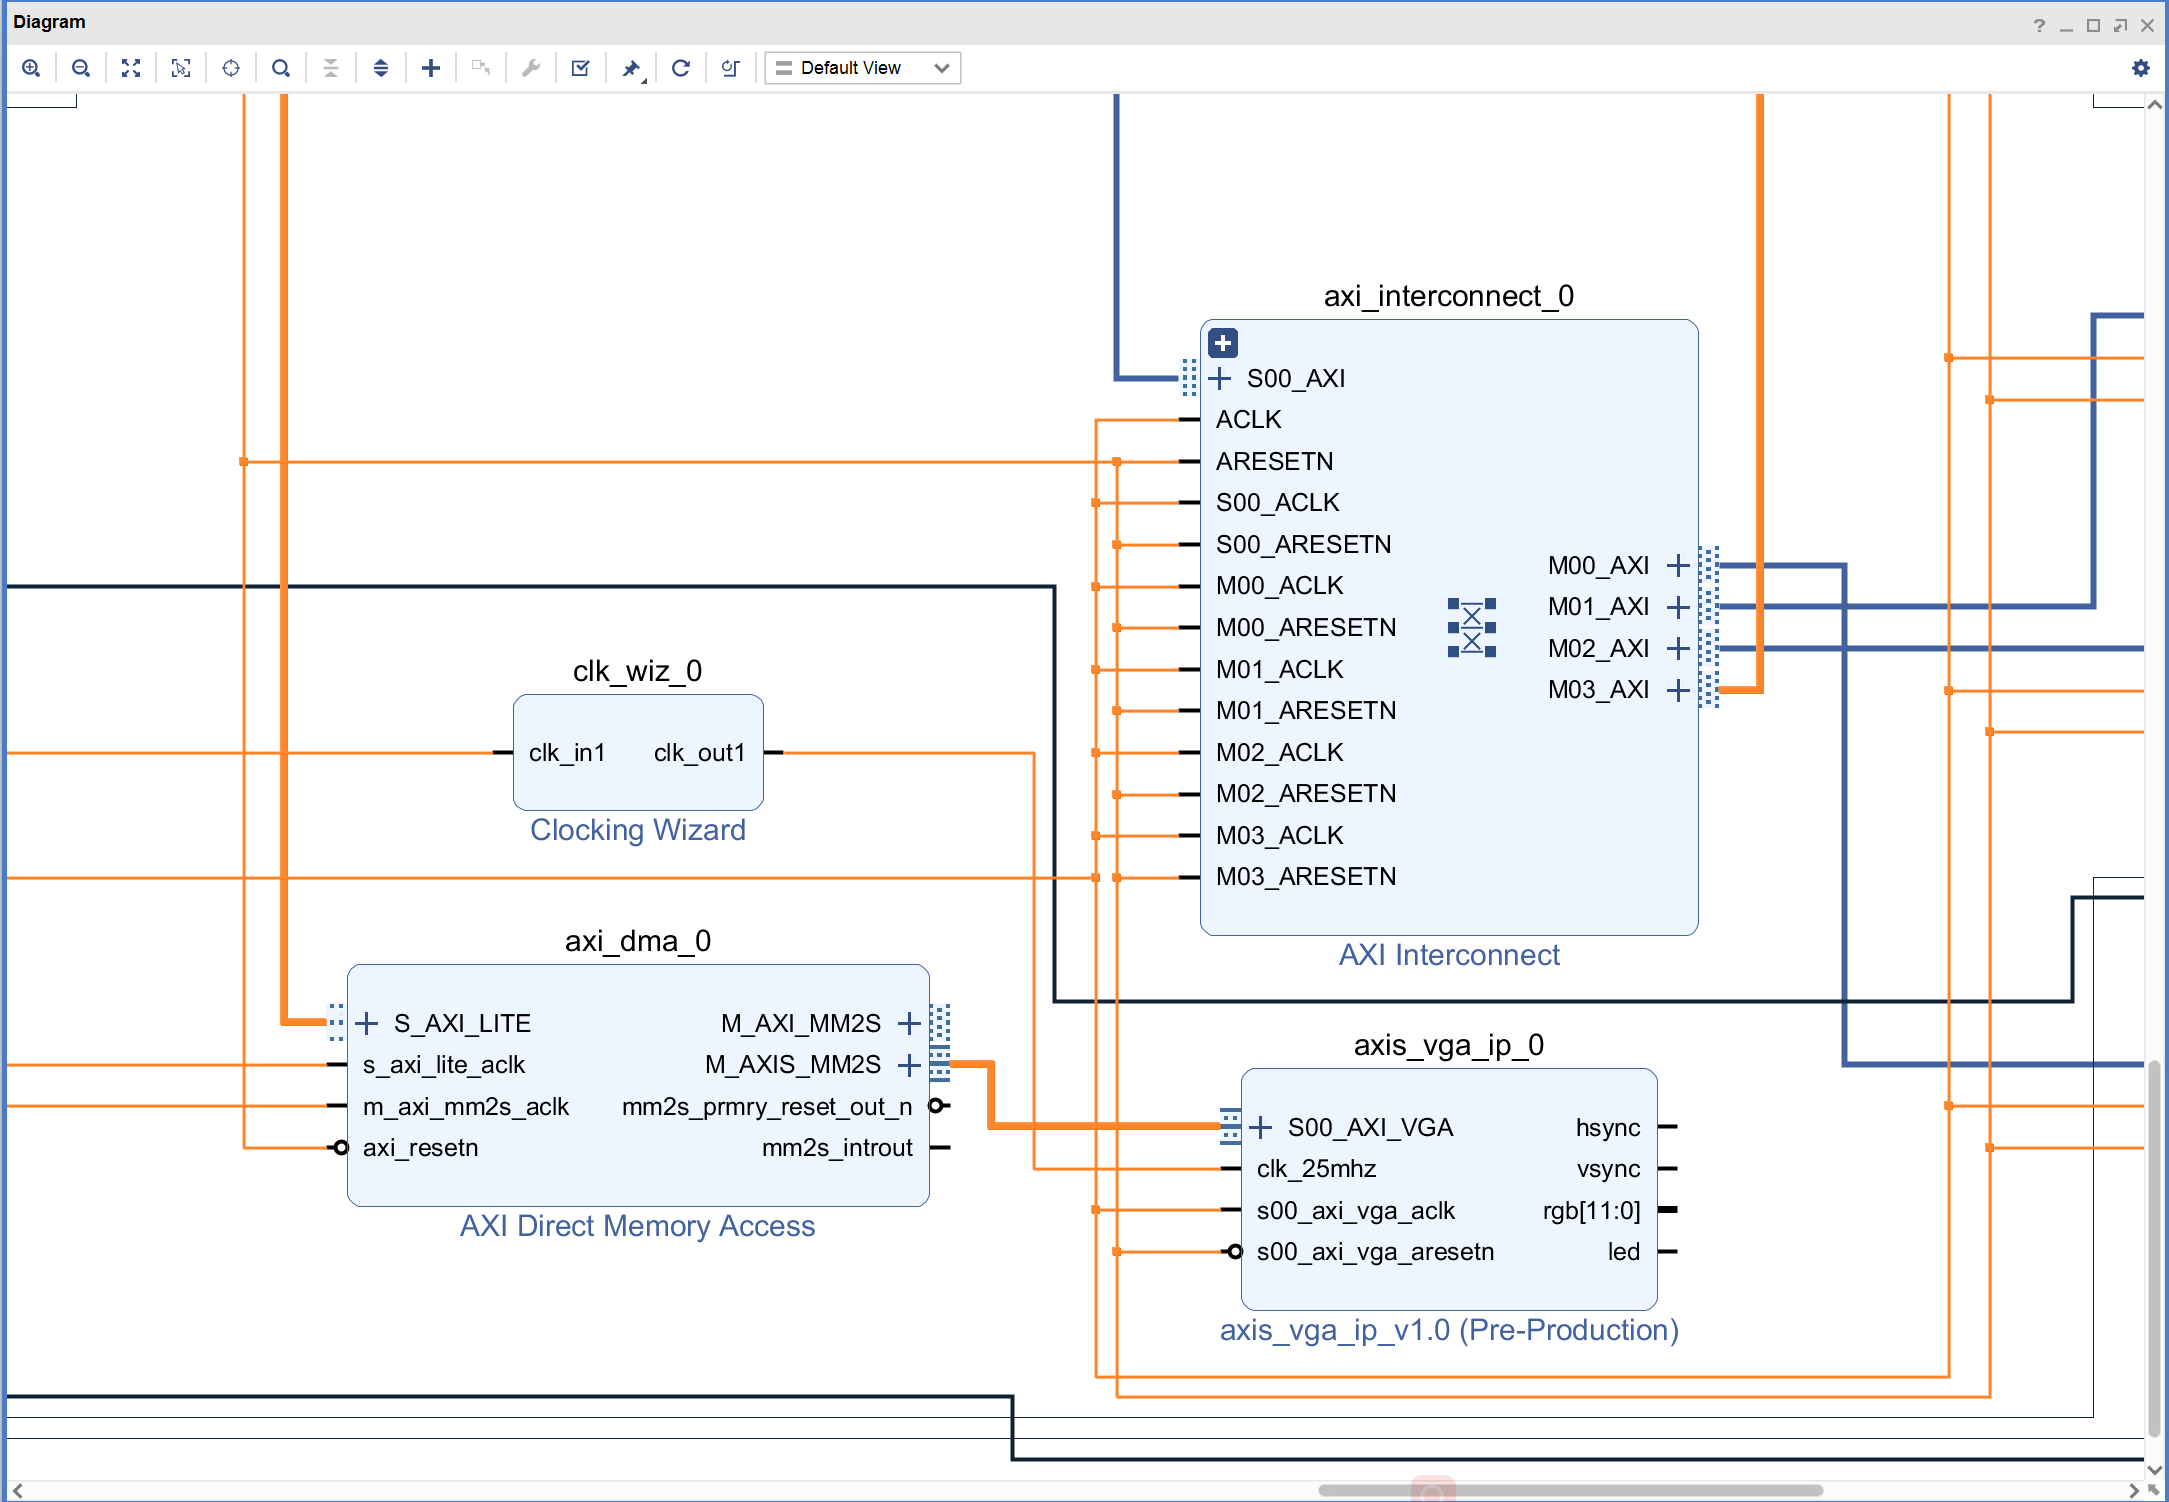
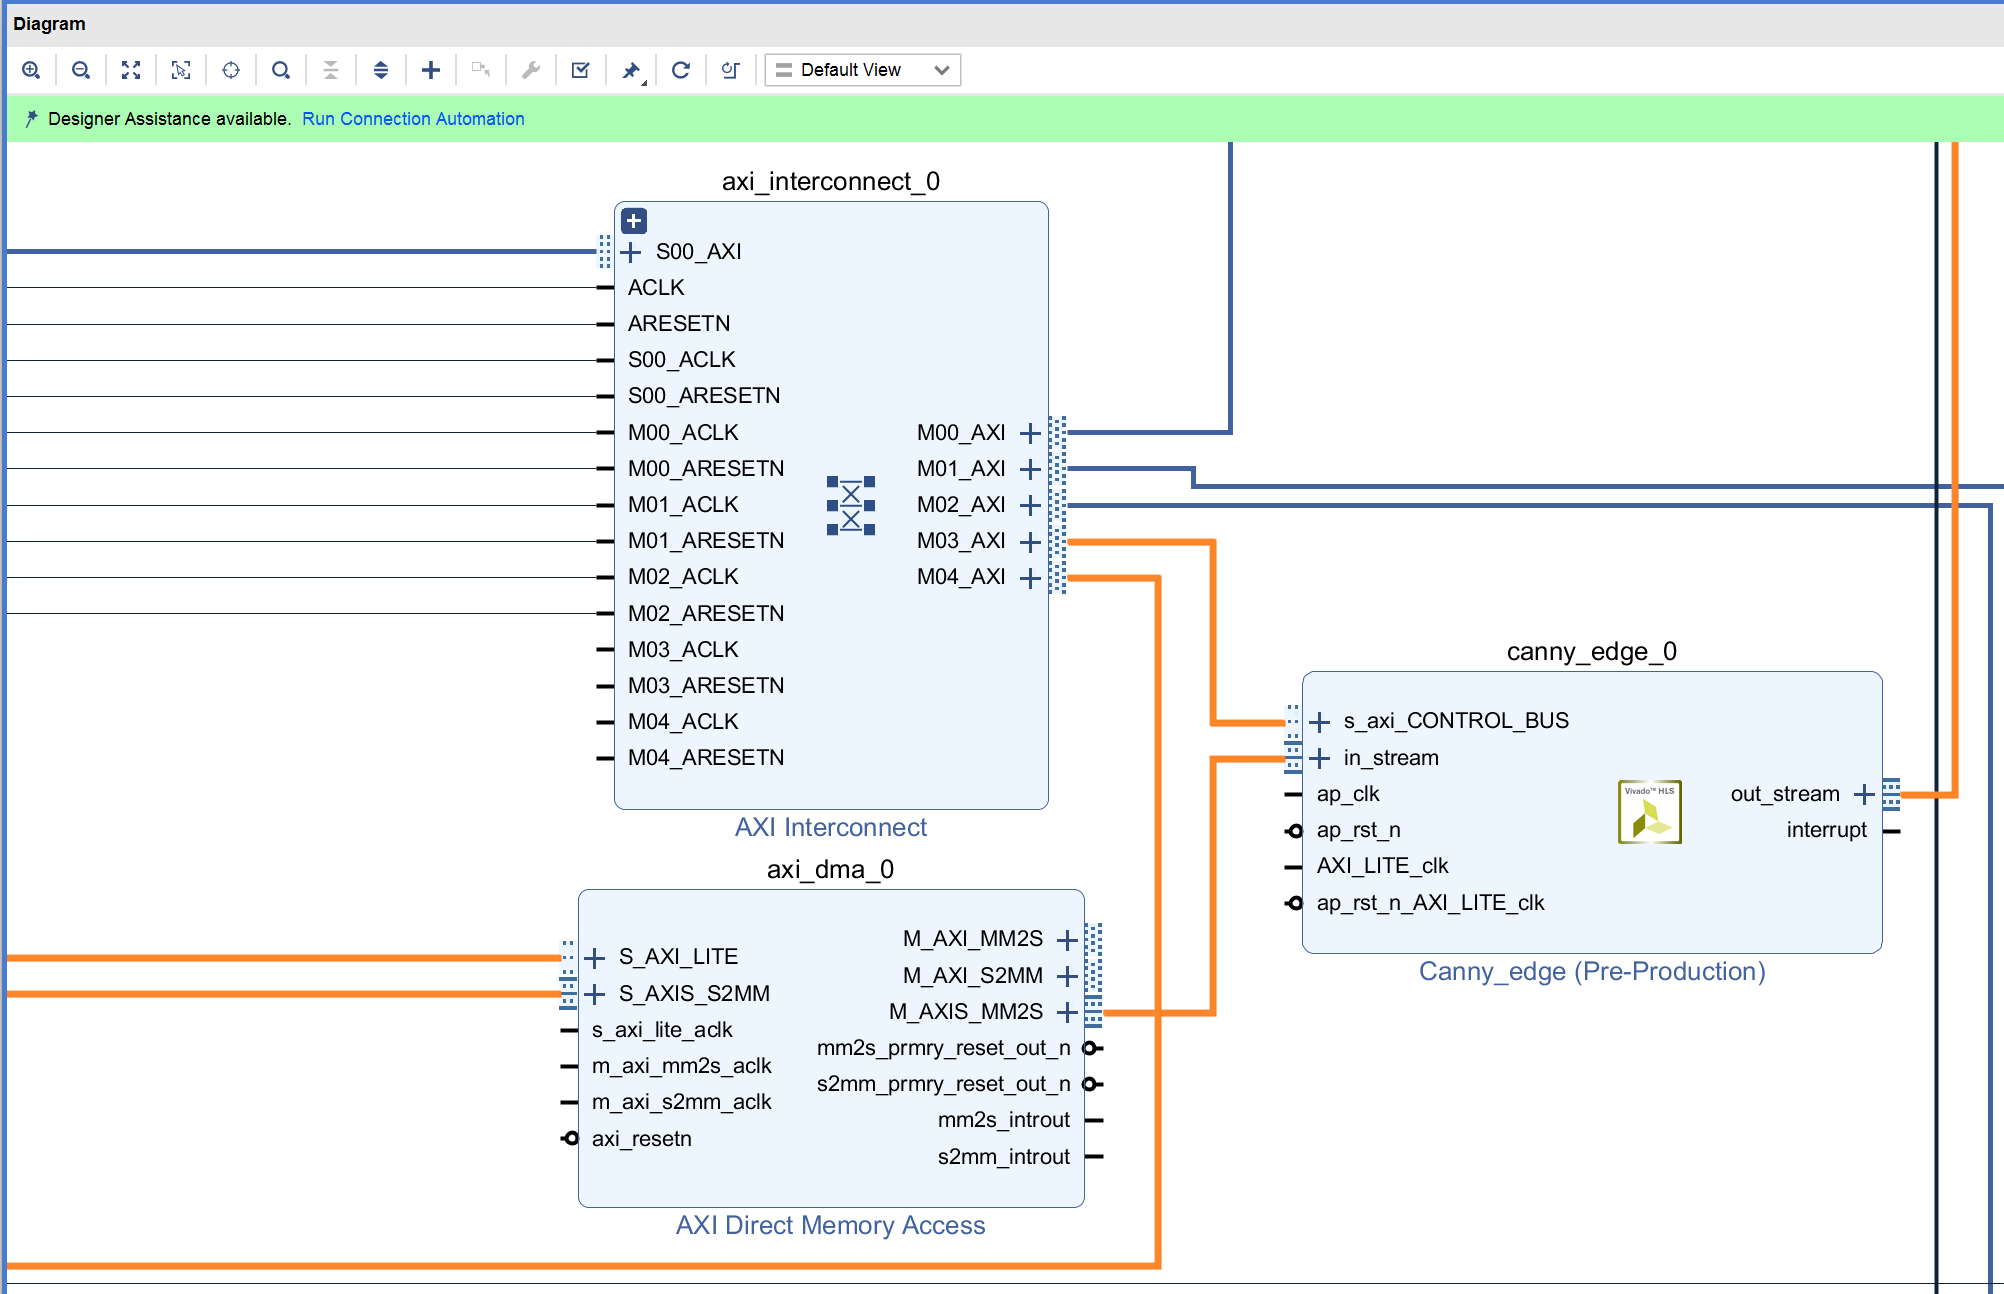
update README.md.

diff --git a/README.md b/README.md
@@ -1,14 +1,14 @@
 # DMA 实验
 
 ## 1. 概述
-本实验将练习如何使用Nexys4 DDR开发板上的VGA接口，从而熟悉和掌握DMA技术。
+本实验将通过图像处理例子来演示DMA模块的使用，从而熟悉和掌握DMA技术。
 
 ## 2. RVfpga_SoC硬件修改
-启动Vivado，打开实验8的工程，确认axis_vga_ip已经添加到IP Catalog（如下图所示），如果没有添加先通过“Settings”将其添加到IP Catalog。
+启动Vivado，打开实验8的工程，确认Canny_edge已经添加到IP Catalog（如下图所示），如果没有添加先通过“Settings”将其添加到IP Catalog。
 
 ![查看IP Catalog](image_2022012201.png)
 
-点击“Open Block Design”打开块设计，点击“Add IP”添加axis_vga_ip，再添加一个AXI Direct Memory Access模块，添加后的块设计如下图所示。
+点击“Open Block Design”打开块设计，点击“Add IP”添加Canny_edge，再添加一个AXI Direct Memory Access模块，添加后的块设计如下图所示。
 
 ![添加IP模块](image_2022012202.png)
 
@@ -16,27 +16,24 @@
 
 ![设置DMA模块](image_2022012203.png)
 
-双击axi_interconnect_0模块，再增加一个从端口，如下图所示。
+双击axi_interconnect_0模块，再增加二个从端口，如下图所示。
 
 ![增加互连端口](image_2022012204.png)
 
-点击“Add IP”添加一个Clocking Wizard模块，为axis_vga_ip提供一个25MHz的时钟。
-
-然后，如下图所示，将axi_dma_0、axis_vga_ip_0、axi_interconnect_0和clk_wiz_0等模块连接起来。
-
+然后，如下图所示，将axi_dma_0、canny_edge_0和axi_interconnect_0模块连接起来。
 ![连接模块](image_2022012205.png)
-
-将axis_vga_ip_0模块的hsync、vsync、rgb和led引脚设置为外部引脚，并重新命名，如下图所示。
-
-![设置外部引脚](image_2022012206.png)
 
 点击“Add IP”添加再添加一个AXI Interconnect模块，双击该模块，按下图所示进行设置。
 
-![设置新的互连模块](image_2022012207.png)
+![设置新的互连模块](image_2022012206.png)
 
-如下图所示，将axi2wb_intcon_wrapper_0模块的o_ram_axi4引脚从输出引脚上断开，连接到新添加的axi_interconnect_1模块的一个主端口上；axi_dma_0模块的M_AXI_MM2S引脚连接到新添加的axi_interconnect_1模块的另一个主端口上；axi_interconnect_1模块的M00_AXI引脚连接到“ram”外部引脚上；然后相应的连接axi_interconnect_1模块的时钟和复位。
+如下图所示，将axi2wb_intcon_wrapper_0模块的o_ram_axi4引脚从输出引脚上断开，连接到新添加的axi_interconnect_1模块的一个主端口上；axi_dma_0模块的M_AXI_MM2S和M_AXI_S2MM引脚连接到新添加的axi_interconnect_1模块的另二个主端口上；axi_interconnect_1模块的M00_AXI引脚连接到“ram”外部引脚上。
 
-![重新连接ram连线](image_2022012208.png)
+![重新连接ram连线](image_2022012207.png)
+
+然后相应的连接新添加的各个模块的时钟和复位。
+
+![连接时钟和复位](image_2022012208.png)
 
 打开“Address Editor”，分配相应的地址，如下图所示。
 
@@ -44,21 +41,7 @@
 
 点击Validate Design，对设计的正确性进行校验。校验过程中如果出现警告，点击OK忽略。
 
-点击Generate Block Design，弹出对话框后选择Generate更新swerv_soc_wrapper文件。
-
-根据更新后的swerv_soc_wrapper对rvfpga.sv文件进行修改，如下图所示，添加VGA的输出端口，同时增加swerv_soc_wrapper模块的端口引用。
-
-![修改rvfpga.sv端口](image_2022012210.png)
-
-![修改rvfpga.sv的模块引用](image_2022012211.png)
-
-再根据修改后的rvfpga.sv文件对rvfpga.xdc约束文件进行修改，如下图所示，增加对VGA引脚的约束。
-
-![添加引脚约束](image_2022012212.png)
-
 最后，点击Generate Bitstream按键，生成bitstream文件。
-
- **注：** 如果因为时钟的原因无法生成比特流（bitstream），则可以直接通过rvfpga.sv的clk_gen_nexys模块给axis_vga_ip_0提供25MHz的时钟。
 
 ## 3. 应用程序
 创建RVfpga工程，编写程序，通过DMA方式给VGA接口提供显示数据，在显示器上进行图片的显示。
